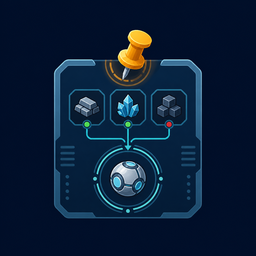
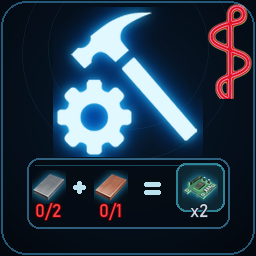
Accept S1-03 package assets

diff --git a/scripts/validate/PackageValidator/Program.cs b/scripts/validate/PackageValidator/Program.cs
@@ -28,9 +28,14 @@ var expectedEntries = new HashSet<string>(StringComparer.Ordinal)
     "BepInEx/plugins/DSPRecipeTracker/DSPRecipeTracker.dll"
 };
 
+const long maximumPackageBytes = 5_242_880_000;
 if (!File.Exists(zipPath) || new FileInfo(zipPath).Length == 0)
 {
     failures.Add("Package ZIP is missing or empty.");
+}
+else if (new FileInfo(zipPath).Length > maximumPackageBytes)
+{
+    failures.Add($"Package ZIP exceeds the documented {maximumPackageBytes}-byte soft limit.");
 }
 else
 {
@@ -132,11 +137,11 @@ static void ValidateManifest(byte[]? bytes, string expectedVersion, List<string>
         var root = document.RootElement;
         CheckJsonString(root, "name", "DSPRecipeTracker", failures);
         CheckJsonString(root, "version_number", expectedVersion, failures);
-        CheckJsonString(root, "website_url", "https://github.com/shytamir/DSPRecipeTracker", failures);
+        ValidateWebsiteUrl(root, failures);
         var description = root.TryGetProperty("description", out var descriptionElement) ? descriptionElement.GetString() : null;
-        if (string.IsNullOrWhiteSpace(description) || !description.Contains("not release-ready", StringComparison.OrdinalIgnoreCase))
+        if (string.IsNullOrWhiteSpace(description) || description.Length > 250)
         {
-            failures.Add("Manifest description must state that the artifact is not release-ready.");
+            failures.Add("Manifest description must contain 1 to 250 characters.");
         }
         if (!root.TryGetProperty("dependencies", out var dependencies) || dependencies.ValueKind != JsonValueKind.Array ||
             dependencies.GetArrayLength() != 1 || dependencies[0].GetString() != "xiaoye97-BepInEx-5.4.17")
@@ -158,6 +163,20 @@ static void ValidateManifest(byte[]? bytes, string expectedVersion, List<string>
     }
 }
 
+static void ValidateWebsiteUrl(JsonElement root, List<string> failures)
+{
+    if (!root.TryGetProperty("website_url", out var element) || element.ValueKind != JsonValueKind.String)
+    {
+        failures.Add("Manifest website_url must be a string.");
+        return;
+    }
+    var value = element.GetString() ?? "";
+    if (value.Length != 0 && (!Uri.TryCreate(value, UriKind.Absolute, out var uri) || uri.Scheme is not "http" and not "https"))
+    {
+        failures.Add("Manifest website_url must be empty or an absolute HTTP(S) URL.");
+    }
+}
+
 static void CheckJsonString(JsonElement root, string property, string expected, List<string> failures)
 {
     if (!root.TryGetProperty(property, out var element) || element.ValueKind != JsonValueKind.String || element.GetString() != expected)
@@ -172,14 +191,13 @@ static void ValidateReadme(byte[]? bytes, List<string> failures)
     {
         return;
     }
-    var text = Encoding.UTF8.GetString(bytes);
-    if (!text.Contains("not been installed or validated in-game", StringComparison.OrdinalIgnoreCase))
+    try
     {
-        failures.Add("Package README must state that installed and in-game validation have not been performed.");
+        _ = new UTF8Encoding(false, true).GetString(bytes);
     }
-    if (!text.Contains("not release-ready", StringComparison.OrdinalIgnoreCase))
+    catch (DecoderFallbackException)
     {
-        failures.Add("Package README must state that the artifact is not release-ready.");
+        failures.Add("Package README must be valid UTF-8.");
     }
 }
 

diff --git a/docs/ROADMAP.md b/docs/ROADMAP.md
@@ -4,10 +4,9 @@
 
 **Status:** In progress
 
-**Active story:** S1-03 - Construct and inspect a package
+**Active story:** S1-04 - Define panel geometry and clamping
 
-**Active story state:** Implemented and technically validated; owner acceptance
-pending
+**Active story state:** Active; implementation pending
 
 **Parent roadmap:**
 [`DSP Recipe Tracker - MVP Roadmap`](planning/MVP-ROADMAP.md)
@@ -248,8 +247,7 @@ and activated S1-03.
 
 ### S1-03 - Construct and inspect a package
 
-**Status:** Active - implemented and technically validated; owner acceptance
-pending
+**Status:** Complete - technically validated and owner accepted on 2026-08-14
 
 **User story:** As a maintainer, I want package construction to describe the
 real build output without implying that the package has run successfully.
@@ -271,15 +269,18 @@ real build output without implying that the package has run successfully.
 
 **Implementation result:**
 
-- `packaging/` contains the tracked manifest template, readiness-limited
-  package README, and original 256x256 PNG icon. Generated versions replace the
-  manifest token only in ignored staging output.
+- `packaging/` contains the tracked manifest template, placeholder package
+  README pending owner-approved public copy, and owner-supplied 256x256 PNG
+  icon. Generated versions replace the manifest token only in ignored staging
+  output.
 - `scripts/build/Build-S1-03.ps1` consumes the real S1-02 `Release` DLL and
   creates the exact four-entry ZIP beneath `artifacts/package/`.
 - `PackageValidator` inspects the ZIP without loading the plugin. It verifies
-  portable exact-case paths, manifest shape and dependency, readiness text,
-  PNG format/dimensions, managed assembly identity, all version forms,
-  BepInEx GUID/display/version metadata, and the packaged DLL hash.
+  portable exact-case paths, package size, manifest field limits and
+  dependency, README encoding, PNG format/dimensions, managed assembly
+  identity, all version forms, BepInEx GUID/display/version metadata, and the
+  packaged DLL hash. Editorial manifest and README copy is not fixed by the
+  validator.
 - `Validate-S1-03.ps1` runs both Local and Hosted package paths and confirms
   rejection of zero-byte and non-managed DLLs, version and plugin-metadata
   mismatches, a compile-reference shim, and a dependency binary.
@@ -314,14 +315,14 @@ save, or a substitute runtime. Package inspection establishes no installed,
 behavioral, visual, compatibility, owner-accepted, publication-ready, or
 supported-release claim.
 
-**Owner acceptance:** Pending. Technical validation does not infer acceptance
-or activate another story.
+**Owner acceptance:** Passed on 2026-08-14. The owner explicitly accepted
+S1-03 and activated S1-04.
 
 ## Epic 2 - Testable panel logic
 
 ### S1-04 - Define panel geometry and clamping
 
-**Status:** Proposed
+**Status:** Active - implementation pending
 
 **User story:** As a maintainer, I want deterministic panel geometry before it
 is connected to Unity objects.

diff --git a/docs/THUNDERSTORE-PACKAGE.md b/docs/THUNDERSTORE-PACKAGE.md
@@ -4,9 +4,9 @@
 
 **Status:** Current package contract
 
-**Implementation status:** The S1-03 package pipeline is implemented and
-technically validated pending owner acceptance. It creates an inspected
-development artifact only; no supported or published release exists.
+**Implementation status:** The S1-03 package pipeline is implemented,
+technically validated, and owner accepted. It creates an inspected development
+artifact only; no supported or published release exists.
 
 This contract defines package layout, version mapping, build inputs, static
 validation, and artifact retention for DSP Recipe Tracker. It does not publish,

diff --git a/docs/PROJECT.md b/docs/PROJECT.md
@@ -10,10 +10,10 @@
 
 **BepInEx display name:** `DSP-Recipe-Tracker`
 
-**Implementation status:** S1-01 and S1-02 are owner accepted. S1-03 is
-implemented and technically validated, and remains Active pending owner
-acceptance. The minimal plugin skeleton contains no recipe-tracking behavior;
-no supported release exists.
+**Implementation status:** S1-01 through S1-03 are owner accepted. S1-04 is
+Active pending implementation. The source contains the minimal plugin skeleton
+and inspected package pipeline, but no recipe-tracking behavior; no supported
+release exists.
 
 **Owner review:** Accepted on 2026-08-14.
 

diff --git a/docs/IMPLEMENTATION-CONTRACT.md b/docs/IMPLEMENTATION-CONTRACT.md
@@ -4,10 +4,9 @@
 
 **Status:** Current implementation contract
 
-**Implementation status:** S1-01 and S1-02 are owner accepted. S1-03 is
-implemented and technically validated, and remains Active pending owner
-acceptance. The source tree contains the minimal BepInEx identity/lifecycle/
-logging skeleton and static package pipeline only.
+**Implementation status:** S1-01 through S1-03 are owner accepted. S1-04 is
+Active pending implementation. The source tree contains the minimal BepInEx
+identity/lifecycle/logging skeleton and static package pipeline only.
 
 **Owner review:** Accepted on 2026-08-14.
 

diff --git a/packaging/README.md b/packaging/README.md
@@ -1,9 +1,6 @@
 # DSP Recipe Tracker
 
-This is a development artifact for the planned DSP Recipe Tracker mod. The
-current DLL establishes only the BepInEx identity, lifecycle, logging, and
-versioned build foundation. Recipe pinning, inventory comparison, and tracker
-UI behavior are not implemented.
+Placeholder package README. Owner-approved public copy is pending.
 
-This artifact has not been installed or validated in-game. It is not release-ready,
-supported, or approved for publication.
+This development artifact has not been installed or validated in-game and is
+not release-ready.
